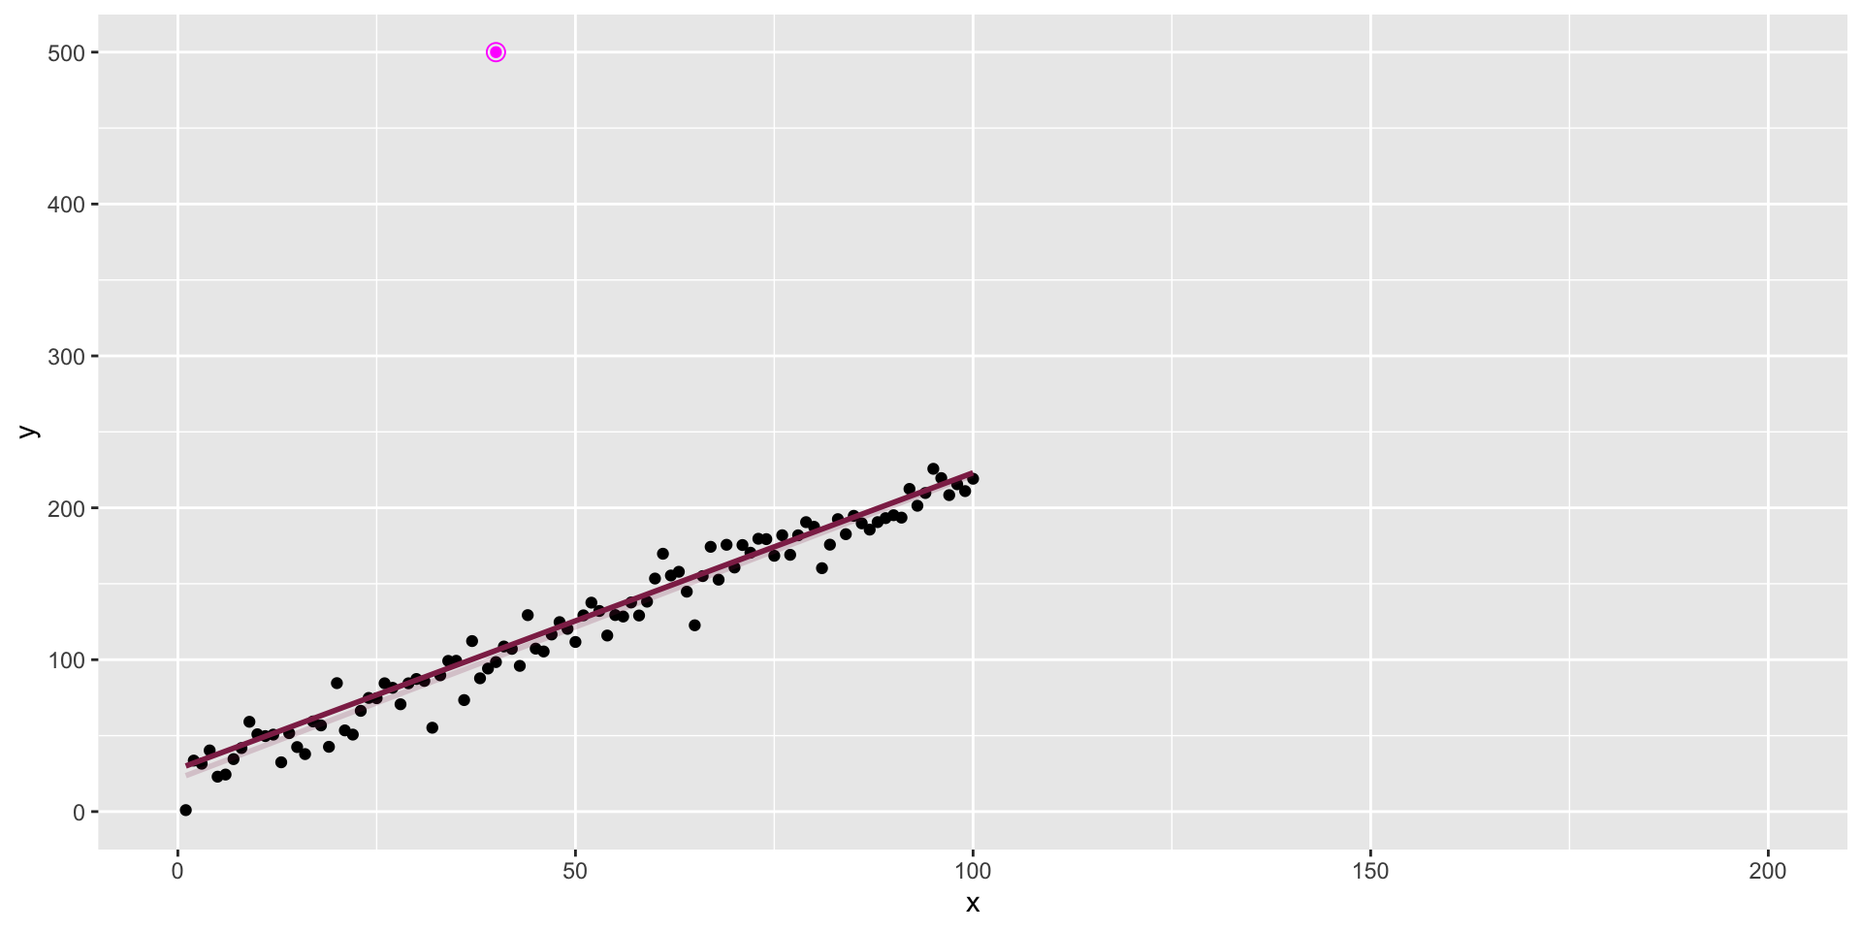
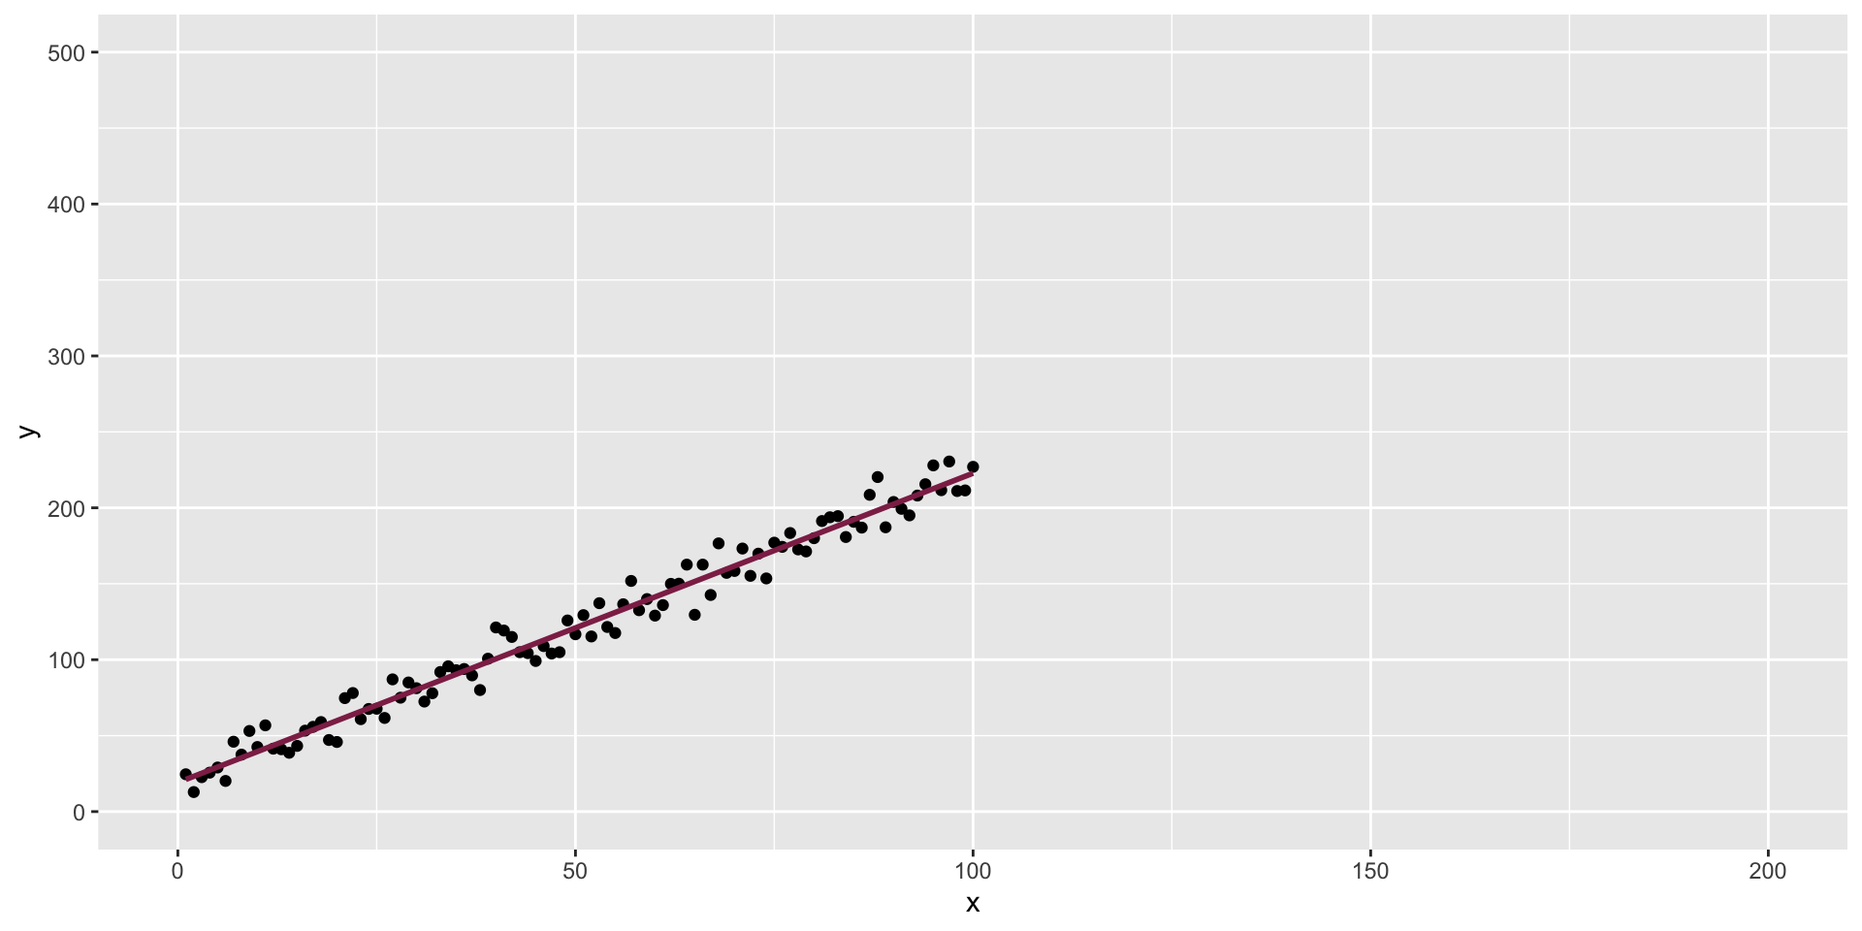
Deploying to gh-pages from @ sta210-s22/website@b567985eafbead0e780e26ba4c216aeec619de0c 🚀

Changed region(s): [[0.0938, 0.4688, 0.5312, 0.875], [0.25, 0.0312, 0.2812, 0.0625]]

diff --git a/slides/lab-3.html b/slides/lab-3.html
@@ -386,6 +386,8 @@
       margin-right: 0; 
     }
   </style>
+  <link href="../site_libs/countdown-0.3.5/countdown.css" rel="stylesheet">
+  <script src="../site_libs/countdown-0.3.5/countdown.js"></script>
 <meta name="twitter:title" content="STA 210 - Spring 2022 - Lab 3 - Coffee ratings">
 <meta name="twitter:description" content="STA 210 - Spring 2022">
 <meta name="twitter:image" content="https://sta210-s22.github.io/website//images/twitter-card.png">
@@ -404,6 +406,109 @@
 </section>
 
 <section>
+<section id="welcome" class="title-slide slide level1 center">
+<h1>Welcome</h1>
+
+</section>
+<section id="goals" class="slide level2">
+<h2>Goals</h2>
+<ul>
+<li>Meet your team!</li>
+<li>Ice breaker / get to know your team</li>
+<li>Team agreement</li>
+<li>Lab 3 - Coffee ratings</li>
+</ul>
+</section>
+<section id="meet-your-team" class="slide level2">
+<h2>Meet your team!</h2>
+<ul>
+<li><strong>Click here</strong> to find your team number.</li>
+</ul>
+<div class="callout callout-warning callout-captioned callout-style-default">
+<div class="callout-body">
+<div class="callout-caption">
+<div class="callout-icon-container">
+<i class="callout-icon"></i>
+</div>
+<p><strong>Warning</strong></p>
+</div>
+<div class="callout-content">
+<p>Team assignments to be posted!</p>
+</div>
+</div>
+</div>
+<ul>
+<li>Sit with your team.</li>
+</ul>
+</section>
+<section id="icebreaker" class="slide level2">
+<h2>Icebreaker</h2>
+<ul>
+<li><p>Quick introductions: Name and hometown</p></li>
+<li><p>Choose a reporter: The person whose birthday is closest to January 31</p></li>
+<li><p>Identify 8 things everyone in the group has in common:</p>
+<ul>
+<li>Not clothes, e.g., we’re all wearing shoes!</li>
+<li>Not body parts, e.g., we all have a nose!</li>
+</ul></li>
+</ul>
+<div class="cell">
+<div class="cell-output-display">
+<div class="countdown" id="timer_61f60e85" style="right:0;bottom:0;font-size:2em;" data-warnwhen="0">
+<code class="countdown-time"><span class="countdown-digits minutes">05</span><span class="countdown-digits colon">:</span><span class="countdown-digits seconds">00</span></code>
+</div>
+</div>
+</div>
+</section>
+<section id="team-name-agreement" class="slide level2">
+<h2>Team name + agreement</h2>
+<ul>
+<li><p>Come up with a team name. You can’t have the same name as another group in the class, so be creative!</p>
+<ul>
+<li>Your TA will get your team name by the end of lab.</li>
+</ul></li>
+<li><p>Fill out the team agreement. The goals of the agreement are to…</p>
+<ul>
+<li>Gain a common understanding of the team’s goals and expectations for collaboration</li>
+<li>Make a plan for team communication</li>
+<li>Make a plan for working outside of lab</li>
+</ul></li>
+</ul>
+</section>
+<section id="team-workflow" class="slide level2">
+<h2>Team workflow</h2>
+<ul>
+<li><p>Only one team member should type at a time. There are markers in today’s lab to help you determine whose turn it is to type.</p>
+<ul>
+<li>Every team member should still be engaged in discussion for all questions, even if it’s not your turn type.</li>
+</ul></li>
+<li><p>Don’t forget to <strong>pull</strong> to get your teammates’ updates before making changes to the <code>.qmd</code> file.</p></li>
+<li><p>Only <strong>one</strong> submission for the team on Gradescope.</p></li>
+</ul>
+</section>
+<section id="team-workflow-in-action" class="slide level2">
+<h2>Team workflow, in action</h2>
+<ul>
+<li>Complete the “Workflow: Using Git and GitHub as a team” section of the lab in your teams.</li>
+<li>When done, pause and wait for your TA to walk you through the rest of the slides before continuing to the following section.</li>
+</ul>
+<div class="cell">
+<div class="cell-output-display">
+<div class="countdown" id="timer_61f60f9e" style="right:0;bottom:0;font-size:2em;" data-warnwhen="0">
+<code class="countdown-time"><span class="countdown-digits minutes">10</span><span class="countdown-digits colon">:</span><span class="countdown-digits seconds">00</span></code>
+</div>
+</div>
+</div>
+</section>
+<section id="tips-for-working-in-a-team" class="slide level2">
+<h2>Tips for working in a team</h2>
+<ul>
+<li>Do not pressure each other to finish early; use the time wisely to really learn the material and produce a quality report.</li>
+<li>The labs are structured to help you learn the steps of a data analysis. Do not split up the lab among the team members; work on it together in its entirety.</li>
+<li>Everyone has something to contribute! Use the lab groups as an opportunity to share ideas and learn from each other.</li>
+</ul>
+</section></section>
+<section>
 <section id="model-diagnostics" class="title-slide slide level1 center">
 <h1>Model diagnostics</h1>
 
@@ -411,15 +516,15 @@
 <section id="the-data" class="slide level2">
 <h2>The data</h2>
 
-<img data-src="lab-3_files/figure-revealjs/unnamed-chunk-1-1.png" width="960" class="r-stretch"></section>
+<img data-src="lab-3_files/figure-revealjs/unnamed-chunk-3-1.png" width="960" class="r-stretch"></section>
 <section id="the-data-an-outlier" class="slide level2">
 <h2>The data + an outlier</h2>
 
-<img data-src="lab-3_files/figure-revealjs/unnamed-chunk-2-1.png" width="960" class="r-stretch"></section>
+<img data-src="lab-3_files/figure-revealjs/unnamed-chunk-4-1.png" width="960" class="r-stretch"></section>
 <section id="the-data-influential-point" class="slide level2">
 <h2>The data + influential point</h2>
 
-<img data-src="lab-3_files/figure-revealjs/unnamed-chunk-3-1.png" width="960" class="r-stretch"></section>
+<img data-src="lab-3_files/figure-revealjs/unnamed-chunk-5-1.png" width="960" class="r-stretch"></section>
 <section id="influential-point" class="slide level2">
 <h2>Influential point</h2>
 <p>An observation is <strong>influential</strong> if removing it substantially changes the coefficients of the regression model.</p>
@@ -427,13 +532,13 @@
 <div class="column" style="width:50%;">
 <div class="cell">
 <div class="cell-output-display">
-<p><img data-src="lab-3_files/figure-revealjs/unnamed-chunk-4-1.png" style="width:100.0%"></p>
+<p><img data-src="lab-3_files/figure-revealjs/unnamed-chunk-6-1.png" style="width:100.0%"></p>
 </div>
 </div>
 </div><div class="column" style="width:50%;">
 <div class="cell">
 <div class="cell-output-display">
-<p><img data-src="lab-3_files/figure-revealjs/unnamed-chunk-5-1.png" style="width:100.0%"></p>
+<p><img data-src="lab-3_files/figure-revealjs/unnamed-chunk-7-1.png" style="width:100.0%"></p>
 </div>
 </div>
 </div>

diff --git a/labs/lab-3.html b/labs/lab-3.html
@@ -377,7 +377,7 @@
 </ul></li>
 <li><a href="#meet-your-team" class="nav-link" data-scroll-target="#meet-your-team">Meet your team!</a></li>
 <li><a href="#getting-started" class="nav-link" data-scroll-target="#getting-started">Getting started</a></li>
-<li><a href="#workflow-using-git-and-github-as-a-team" class="nav-link" data-scroll-target="#workflow-using-git-and-github-as-a-team">Workflow: Using git and GitHub as a team</a></li>
+<li><a href="#workflow-using-git-and-github-as-a-team" class="nav-link" data-scroll-target="#workflow-using-git-and-github-as-a-team">Workflow: Using Git and GitHub as a team</a></li>
 <li><a href="#packages" class="nav-link" data-scroll-target="#packages">Packages</a></li>
 <li><a href="#data-coffee-ratings" class="nav-link" data-scroll-target="#data-coffee-ratings">Data: Coffee ratings</a></li>
 <li><a href="#exercises" class="nav-link" data-scroll-target="#exercises">Exercises</a>
@@ -447,7 +447,7 @@ Warning
 </ul>
 </section>
 <section id="workflow-using-git-and-github-as-a-team" class="level2">
-<h2 class="anchored" data-anchor-id="workflow-using-git-and-github-as-a-team">Workflow: Using git and GitHub as a team</h2>
+<h2 class="anchored" data-anchor-id="workflow-using-git-and-github-as-a-team">Workflow: Using Git and GitHub as a team</h2>
 <div class="callout-important callout callout-style-default callout-captioned">
 <div class="callout-header d-flex align-content-center">
 <div class="callout-icon-container">
@@ -483,7 +483,7 @@ Important
 </section>
 <section id="packages" class="level2">
 <h2 class="anchored" data-anchor-id="packages">Packages</h2>
-<p>The follow packages are used in the lab.</p>
+<p>The following packages are used in the lab.</p>
 <div class="cell">
 <div class="sourceCode" id="cb1"><pre class="sourceCode r cell-code code-with-copy"><code class="sourceCode r"><span id="cb1-1"><a href="#cb1-1" aria-hidden="true" tabindex="-1"></a><span class="fu">library</span>(tidyverse)</span>
 <span id="cb1-2"><a href="#cb1-2" aria-hidden="true" tabindex="-1"></a><span class="fu">library</span>(tidymodels)</span>

diff --git a/ae/ae-0-movies.html b/ae/ae-0-movies.html
@@ -532,8 +532,8 @@ Important
 <span id="cb14-3"><a href="#cb14-3" aria-hidden="true" tabindex="-1"></a>  <span class="fu">arrange</span>(genre) <span class="sc">%&gt;%</span> </span>
 <span id="cb14-4"><a href="#cb14-4" aria-hidden="true" tabindex="-1"></a>  <span class="fu">datatable</span>()</span></code><button title="Copy to Clipboard" class="code-copy-button"><i class="bi"></i></button></pre></div>
 <div class="cell-output-display">
-<div id="htmlwidget-7766b60e9bbca47b4afa" style="width:100%;height:auto;" class="datatables html-widget"></div>
-<script type="application/json" data-for="htmlwidget-7766b60e9bbca47b4afa">{"x":{"filter":"none","vertical":false,"data":[["1","2","3","4","5","6","7","8","9","10","11","12","13","14","15","16","17","18","19"],["Action","Adventure","Animation","Biography","Comedy","Crime","Drama","Family","Fantasy","History","Horror","Music","Musical","Mystery","Romance","Sci-Fi","Sport","Thriller","Western"]],"container":"<table class=\"display\">\n  <thead>\n    <tr>\n      <th> <\/th>\n      <th>genre<\/th>\n    <\/tr>\n  <\/thead>\n<\/table>","options":{"order":[],"autoWidth":false,"orderClasses":false,"columnDefs":[{"orderable":false,"targets":0}]}},"evals":[],"jsHooks":[]}</script>
+<div id="htmlwidget-05f62195898f6fab9b9e" style="width:100%;height:auto;" class="datatables html-widget"></div>
+<script type="application/json" data-for="htmlwidget-05f62195898f6fab9b9e">{"x":{"filter":"none","vertical":false,"data":[["1","2","3","4","5","6","7","8","9","10","11","12","13","14","15","16","17","18","19"],["Action","Adventure","Animation","Biography","Comedy","Crime","Drama","Family","Fantasy","History","Horror","Music","Musical","Mystery","Romance","Sci-Fi","Sport","Thriller","Western"]],"container":"<table class=\"display\">\n  <thead>\n    <tr>\n      <th> <\/th>\n      <th>genre<\/th>\n    <\/tr>\n  <\/thead>\n<\/table>","options":{"order":[],"autoWidth":false,"orderClasses":false,"columnDefs":[{"orderable":false,"targets":0}]}},"evals":[],"jsHooks":[]}</script>
 </div>
 </div>
 

diff --git a/slides/lec-7.html b/slides/lec-7.html
@@ -1079,7 +1079,7 @@ t = \frac{\hat{\beta}_1 - 0}{SE_{\hat{\beta}_1}} = \frac{159.48 - 0}{18.17} = 8.
 
 'menu': {"side":"left","useTextContentForMissingTitles":true,"markers":false,"loadIcons":false,"custom":[{"title":"Tools","icon":"<i class=\"fas fa-gear\"></i>","content":"<ul class=\"slide-menu-items\">\n<li class=\"slide-tool-item active\" data-item=\"0\"><a href=\"#\" onclick=\"RevealMenuToolHandlers.fullscreen(event)\"><kbd>f</kbd> Fullscreen</a></li>\n<li class=\"slide-tool-item\" data-item=\"1\"><a href=\"#\" onclick=\"RevealMenuToolHandlers.speakerMode(event)\"><kbd>s</kbd> Speaker View</a></li>\n<li class=\"slide-tool-item\" data-item=\"2\"><a href=\"#\" onclick=\"RevealMenuToolHandlers.overview(event)\"><kbd>o</kbd> Slide Overview</a></li>\n<li class=\"slide-tool-item\" data-item=\"3\"><a href=\"#\" onclick=\"RevealMenuToolHandlers.overview(event)\"><kbd>e</kbd> PDF Export Mode</a></li>\n<li class=\"slide-tool-item\" data-item=\"4\"><a href=\"#\" onclick=\"RevealMenuToolHandlers.toggleChalkboard(event)\"><kbd>b</kbd> Toggle Chalkboard</a></li>\n<li class=\"slide-tool-item\" data-item=\"5\"><a href=\"#\" onclick=\"RevealMenuToolHandlers.toggleNotesCanvas(event)\"><kbd>c</kbd> Toggle Notes Canvas</a></li>\n<li class=\"slide-tool-item\" data-item=\"6\"><a href=\"#\" onclick=\"RevealMenuToolHandlers.downloadDrawings(event)\"><kbd>d</kbd> Download Drawings</a></li>\n<li class=\"slide-tool-item\" data-item=\"7\"><a href=\"#\" onclick=\"RevealMenuToolHandlers.keyboardHelp(event)\"><kbd>?</kbd> Keyboard Help</a></li>\n</ul>"}],"openButton":true},
 'chalkboard': {"buttons":true},
-'multiplex': {"secret":null,"id":"1f181acdf6f0204c","url":"https://reveal-multiplex.glitch.me/"},
+'multiplex': {"secret":null,"id":"c9d01b733c9272ac","url":"https://reveal-multiplex.glitch.me/"},
 'smaller': false,
 
         // Display controls in the bottom right corner

diff --git a/slides/lec-6.html b/slides/lec-6.html
@@ -1191,7 +1191,7 @@ SE_{\hat{\beta}_1} = \hat{\sigma}_\epsilon\sqrt{\frac{1}{(n-1)s_X^2}}
 
 'menu': {"side":"left","useTextContentForMissingTitles":true,"markers":false,"loadIcons":false,"custom":[{"title":"Tools","icon":"<i class=\"fas fa-gear\"></i>","content":"<ul class=\"slide-menu-items\">\n<li class=\"slide-tool-item active\" data-item=\"0\"><a href=\"#\" onclick=\"RevealMenuToolHandlers.fullscreen(event)\"><kbd>f</kbd> Fullscreen</a></li>\n<li class=\"slide-tool-item\" data-item=\"1\"><a href=\"#\" onclick=\"RevealMenuToolHandlers.speakerMode(event)\"><kbd>s</kbd> Speaker View</a></li>\n<li class=\"slide-tool-item\" data-item=\"2\"><a href=\"#\" onclick=\"RevealMenuToolHandlers.overview(event)\"><kbd>o</kbd> Slide Overview</a></li>\n<li class=\"slide-tool-item\" data-item=\"3\"><a href=\"#\" onclick=\"RevealMenuToolHandlers.overview(event)\"><kbd>e</kbd> PDF Export Mode</a></li>\n<li class=\"slide-tool-item\" data-item=\"4\"><a href=\"#\" onclick=\"RevealMenuToolHandlers.toggleChalkboard(event)\"><kbd>b</kbd> Toggle Chalkboard</a></li>\n<li class=\"slide-tool-item\" data-item=\"5\"><a href=\"#\" onclick=\"RevealMenuToolHandlers.toggleNotesCanvas(event)\"><kbd>c</kbd> Toggle Notes Canvas</a></li>\n<li class=\"slide-tool-item\" data-item=\"6\"><a href=\"#\" onclick=\"RevealMenuToolHandlers.downloadDrawings(event)\"><kbd>d</kbd> Download Drawings</a></li>\n<li class=\"slide-tool-item\" data-item=\"7\"><a href=\"#\" onclick=\"RevealMenuToolHandlers.keyboardHelp(event)\"><kbd>?</kbd> Keyboard Help</a></li>\n</ul>"}],"openButton":true},
 'chalkboard': {"buttons":true},
-'multiplex': {"secret":null,"id":"8acd5a7376f17f86","url":"https://reveal-multiplex.glitch.me/"},
+'multiplex': {"secret":null,"id":"ff04b625fb966ccb","url":"https://reveal-multiplex.glitch.me/"},
 'smaller': false,
 
         // Display controls in the bottom right corner

diff --git a/slides/lec-4.html b/slides/lec-4.html
@@ -957,7 +957,7 @@ RMSE = \sqrt{\frac{\sum_{i = 1}^n (y_i - \hat{y}_i)^2}{n}}
 'autoAnimateUnmatched': true,
 
 'menu': {"side":"left","useTextContentForMissingTitles":true,"markers":false,"loadIcons":false,"custom":[{"title":"Tools","icon":"<i class=\"fas fa-gear\"></i>","content":"<ul class=\"slide-menu-items\">\n<li class=\"slide-tool-item active\" data-item=\"0\"><a href=\"#\" onclick=\"RevealMenuToolHandlers.fullscreen(event)\"><kbd>f</kbd> Fullscreen</a></li>\n<li class=\"slide-tool-item\" data-item=\"1\"><a href=\"#\" onclick=\"RevealMenuToolHandlers.speakerMode(event)\"><kbd>s</kbd> Speaker View</a></li>\n<li class=\"slide-tool-item\" data-item=\"2\"><a href=\"#\" onclick=\"RevealMenuToolHandlers.overview(event)\"><kbd>o</kbd> Slide Overview</a></li>\n<li class=\"slide-tool-item\" data-item=\"3\"><a href=\"#\" onclick=\"RevealMenuToolHandlers.overview(event)\"><kbd>e</kbd> PDF Export Mode</a></li>\n<li class=\"slide-tool-item\" data-item=\"4\"><a href=\"#\" onclick=\"RevealMenuToolHandlers.keyboardHelp(event)\"><kbd>?</kbd> Keyboard Help</a></li>\n</ul>"}],"openButton":true},
-'multiplex': {"secret":null,"id":"7779aba72a984d1d","url":"https://reveal-multiplex.glitch.me/"},
+'multiplex': {"secret":null,"id":"8ac62c7ef11f61e9","url":"https://reveal-multiplex.glitch.me/"},
 'smaller': false,
 
         // Display controls in the bottom right corner

diff --git a/slides/lec-2.html b/slides/lec-2.html
@@ -825,7 +825,7 @@ r &amp;= 0.7814
 'autoAnimateUnmatched': true,
 
 'menu': {"side":"left","useTextContentForMissingTitles":true,"markers":false,"loadIcons":false,"custom":[{"title":"Tools","icon":"<i class=\"fas fa-gear\"></i>","content":"<ul class=\"slide-menu-items\">\n<li class=\"slide-tool-item active\" data-item=\"0\"><a href=\"#\" onclick=\"RevealMenuToolHandlers.fullscreen(event)\"><kbd>f</kbd> Fullscreen</a></li>\n<li class=\"slide-tool-item\" data-item=\"1\"><a href=\"#\" onclick=\"RevealMenuToolHandlers.speakerMode(event)\"><kbd>s</kbd> Speaker View</a></li>\n<li class=\"slide-tool-item\" data-item=\"2\"><a href=\"#\" onclick=\"RevealMenuToolHandlers.overview(event)\"><kbd>o</kbd> Slide Overview</a></li>\n<li class=\"slide-tool-item\" data-item=\"3\"><a href=\"#\" onclick=\"RevealMenuToolHandlers.overview(event)\"><kbd>e</kbd> PDF Export Mode</a></li>\n<li class=\"slide-tool-item\" data-item=\"4\"><a href=\"#\" onclick=\"RevealMenuToolHandlers.keyboardHelp(event)\"><kbd>?</kbd> Keyboard Help</a></li>\n</ul>"}],"openButton":true},
-'multiplex': {"secret":null,"id":"9277c2f41e0b1bad","url":"https://reveal-multiplex.glitch.me/"},
+'multiplex': {"secret":null,"id":"829e0f6f1c182142","url":"https://reveal-multiplex.glitch.me/"},
 'smaller': false,
 
         // Display controls in the bottom right corner

diff --git a/slides/lec-3.html b/slides/lec-3.html
@@ -678,7 +678,7 @@ Coefficients:
 'autoAnimateUnmatched': true,
 
 'menu': {"side":"left","useTextContentForMissingTitles":true,"markers":false,"loadIcons":false,"custom":[{"title":"Tools","icon":"<i class=\"fas fa-gear\"></i>","content":"<ul class=\"slide-menu-items\">\n<li class=\"slide-tool-item active\" data-item=\"0\"><a href=\"#\" onclick=\"RevealMenuToolHandlers.fullscreen(event)\"><kbd>f</kbd> Fullscreen</a></li>\n<li class=\"slide-tool-item\" data-item=\"1\"><a href=\"#\" onclick=\"RevealMenuToolHandlers.speakerMode(event)\"><kbd>s</kbd> Speaker View</a></li>\n<li class=\"slide-tool-item\" data-item=\"2\"><a href=\"#\" onclick=\"RevealMenuToolHandlers.overview(event)\"><kbd>o</kbd> Slide Overview</a></li>\n<li class=\"slide-tool-item\" data-item=\"3\"><a href=\"#\" onclick=\"RevealMenuToolHandlers.overview(event)\"><kbd>e</kbd> PDF Export Mode</a></li>\n<li class=\"slide-tool-item\" data-item=\"4\"><a href=\"#\" onclick=\"RevealMenuToolHandlers.keyboardHelp(event)\"><kbd>?</kbd> Keyboard Help</a></li>\n</ul>"}],"openButton":true},
-'multiplex': {"secret":null,"id":"aef68616485f5694","url":"https://reveal-multiplex.glitch.me/"},
+'multiplex': {"secret":null,"id":"8b0482c8db8a78fc","url":"https://reveal-multiplex.glitch.me/"},
 'smaller': false,
 
         // Display controls in the bottom right corner

diff --git a/slides/lec-5.html b/slides/lec-5.html
@@ -1138,7 +1138,7 @@
 'autoAnimateUnmatched': true,
 
 'menu': {"side":"left","useTextContentForMissingTitles":true,"markers":false,"loadIcons":false,"custom":[{"title":"Tools","icon":"<i class=\"fas fa-gear\"></i>","content":"<ul class=\"slide-menu-items\">\n<li class=\"slide-tool-item active\" data-item=\"0\"><a href=\"#\" onclick=\"RevealMenuToolHandlers.fullscreen(event)\"><kbd>f</kbd> Fullscreen</a></li>\n<li class=\"slide-tool-item\" data-item=\"1\"><a href=\"#\" onclick=\"RevealMenuToolHandlers.speakerMode(event)\"><kbd>s</kbd> Speaker View</a></li>\n<li class=\"slide-tool-item\" data-item=\"2\"><a href=\"#\" onclick=\"RevealMenuToolHandlers.overview(event)\"><kbd>o</kbd> Slide Overview</a></li>\n<li class=\"slide-tool-item\" data-item=\"3\"><a href=\"#\" onclick=\"RevealMenuToolHandlers.overview(event)\"><kbd>e</kbd> PDF Export Mode</a></li>\n<li class=\"slide-tool-item\" data-item=\"4\"><a href=\"#\" onclick=\"RevealMenuToolHandlers.keyboardHelp(event)\"><kbd>?</kbd> Keyboard Help</a></li>\n</ul>"}],"openButton":true},
-'multiplex': {"secret":null,"id":"a8223b637e466143","url":"https://reveal-multiplex.glitch.me/"},
+'multiplex': {"secret":null,"id":"d79aa6a55dffcad5","url":"https://reveal-multiplex.glitch.me/"},
 'smaller': false,
 
         // Display controls in the bottom right corner

diff --git a/slides/lec-1.html b/slides/lec-1.html
@@ -727,7 +727,7 @@
 'autoAnimateUnmatched': true,
 
 'menu': {"side":"left","useTextContentForMissingTitles":true,"markers":false,"loadIcons":false,"custom":[{"title":"Tools","icon":"<i class=\"fas fa-gear\"></i>","content":"<ul class=\"slide-menu-items\">\n<li class=\"slide-tool-item active\" data-item=\"0\"><a href=\"#\" onclick=\"RevealMenuToolHandlers.fullscreen(event)\"><kbd>f</kbd> Fullscreen</a></li>\n<li class=\"slide-tool-item\" data-item=\"1\"><a href=\"#\" onclick=\"RevealMenuToolHandlers.speakerMode(event)\"><kbd>s</kbd> Speaker View</a></li>\n<li class=\"slide-tool-item\" data-item=\"2\"><a href=\"#\" onclick=\"RevealMenuToolHandlers.overview(event)\"><kbd>o</kbd> Slide Overview</a></li>\n<li class=\"slide-tool-item\" data-item=\"3\"><a href=\"#\" onclick=\"RevealMenuToolHandlers.overview(event)\"><kbd>e</kbd> PDF Export Mode</a></li>\n<li class=\"slide-tool-item\" data-item=\"4\"><a href=\"#\" onclick=\"RevealMenuToolHandlers.keyboardHelp(event)\"><kbd>?</kbd> Keyboard Help</a></li>\n</ul>"}],"openButton":true},
-'multiplex': {"secret":null,"id":"ea112eba7e70df77","url":"https://reveal-multiplex.glitch.me/"},
+'multiplex': {"secret":null,"id":"ecc5af5e3a683d4c","url":"https://reveal-multiplex.glitch.me/"},
 'smaller': false,
 
         // Display controls in the bottom right corner

diff --git a/weeks/week-5.html b/weeks/week-5.html
@@ -349,9 +349,9 @@ Important
 </section>
 <section id="participate" class="level2">
 <h2 class="anchored" data-anchor-id="participate">Participate</h2>
-<p>🖥 Lab 3 - Coffee ratings (to be posted)</p>
+<p>🖥 <a href="../slides/lab-3.html">Lab 3 - Coffee ratings</a></p>
 <p>🖥 Lecture 8 - Multiple linear regression (MLR) (to be posted)</p>
-<p>🖥 Lecture 9 - Exam 1 review</p>
+<p>🖥 Lecture 9 - Exam 1 review (to be posted)</p>
 </section>
 <section id="practice" class="level2">
 <h2 class="anchored" data-anchor-id="practice">Practice</h2>
@@ -359,7 +359,7 @@ Important
 </section>
 <section id="perform" class="level2">
 <h2 class="anchored" data-anchor-id="perform">Perform</h2>
-<p>⌨ Lab 3 - Coffee ratings</p>
+<p>⌨ <a href="labs/lab-3.html">Lab 3 - Coffee ratings</a></p>
 <p><br><br></p>
 <div style="font-size: 0.875em;">
 <p>Back to <a href="../" title="Course schedule">course schedule</a> ⏎</p>

diff --git a/index.html b/index.html
@@ -513,9 +513,9 @@
 <tr class="even">
 <td style="text-align: center;"><a href="./weeks/week-5.html">5</a></td>
 <td>Mon, Jan 31</td>
-<td>Lab 3 - MLR</td>
+<td>Lab 3 - SLR</td>
 <td style="text-align: center;"></td>
-<td style="text-align: center;"></td>
+<td style="text-align: center;"><a href="./slides/lab-3.html" title="Lab slides">🖥</a></td>
 <td style="text-align: center;"></td>
 <td style="text-align: center;"></td>
 <td style="text-align: center;"></td>
@@ -529,7 +529,7 @@
 <td style="text-align: center;"><a href="./weeks/week-5.html#prepare">📖</a></td>
 <td style="text-align: center;"></td>
 <td style="text-align: center;"></td>
-<td style="text-align: center;"></td>
+<td style="text-align: center;"><a href="./labs/lab-3.html" title="Lab instructions">💻</a></td>
 <td style="text-align: center;"></td>
 <td style="text-align: center;"></td>
 <td style="text-align: center;"></td>
